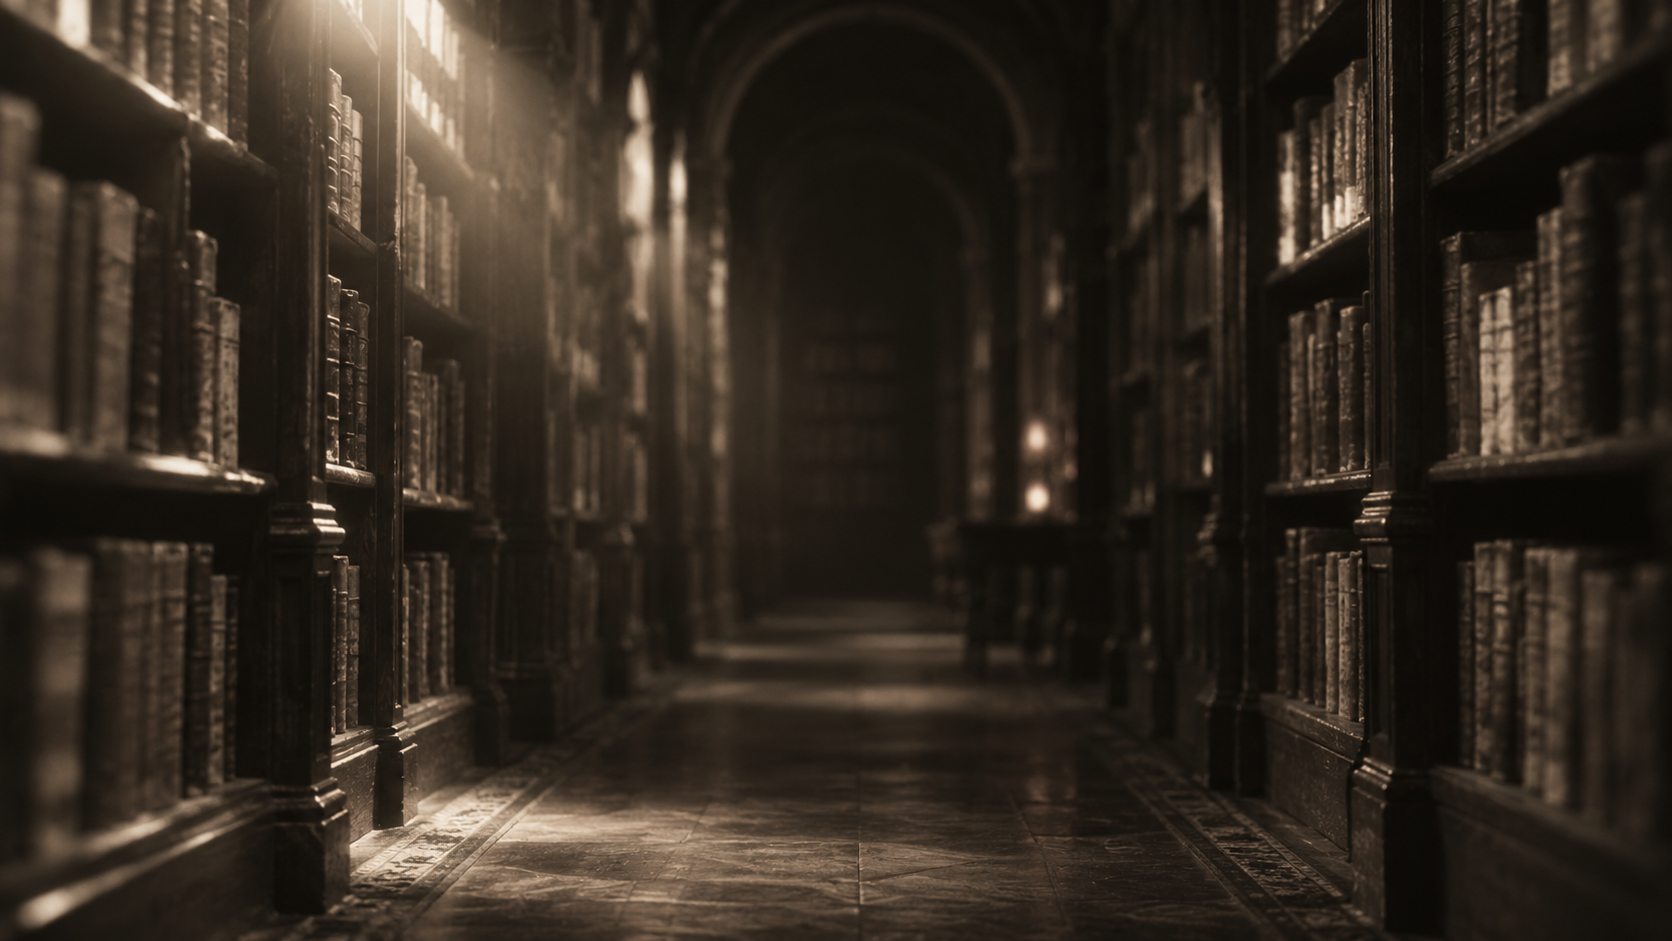
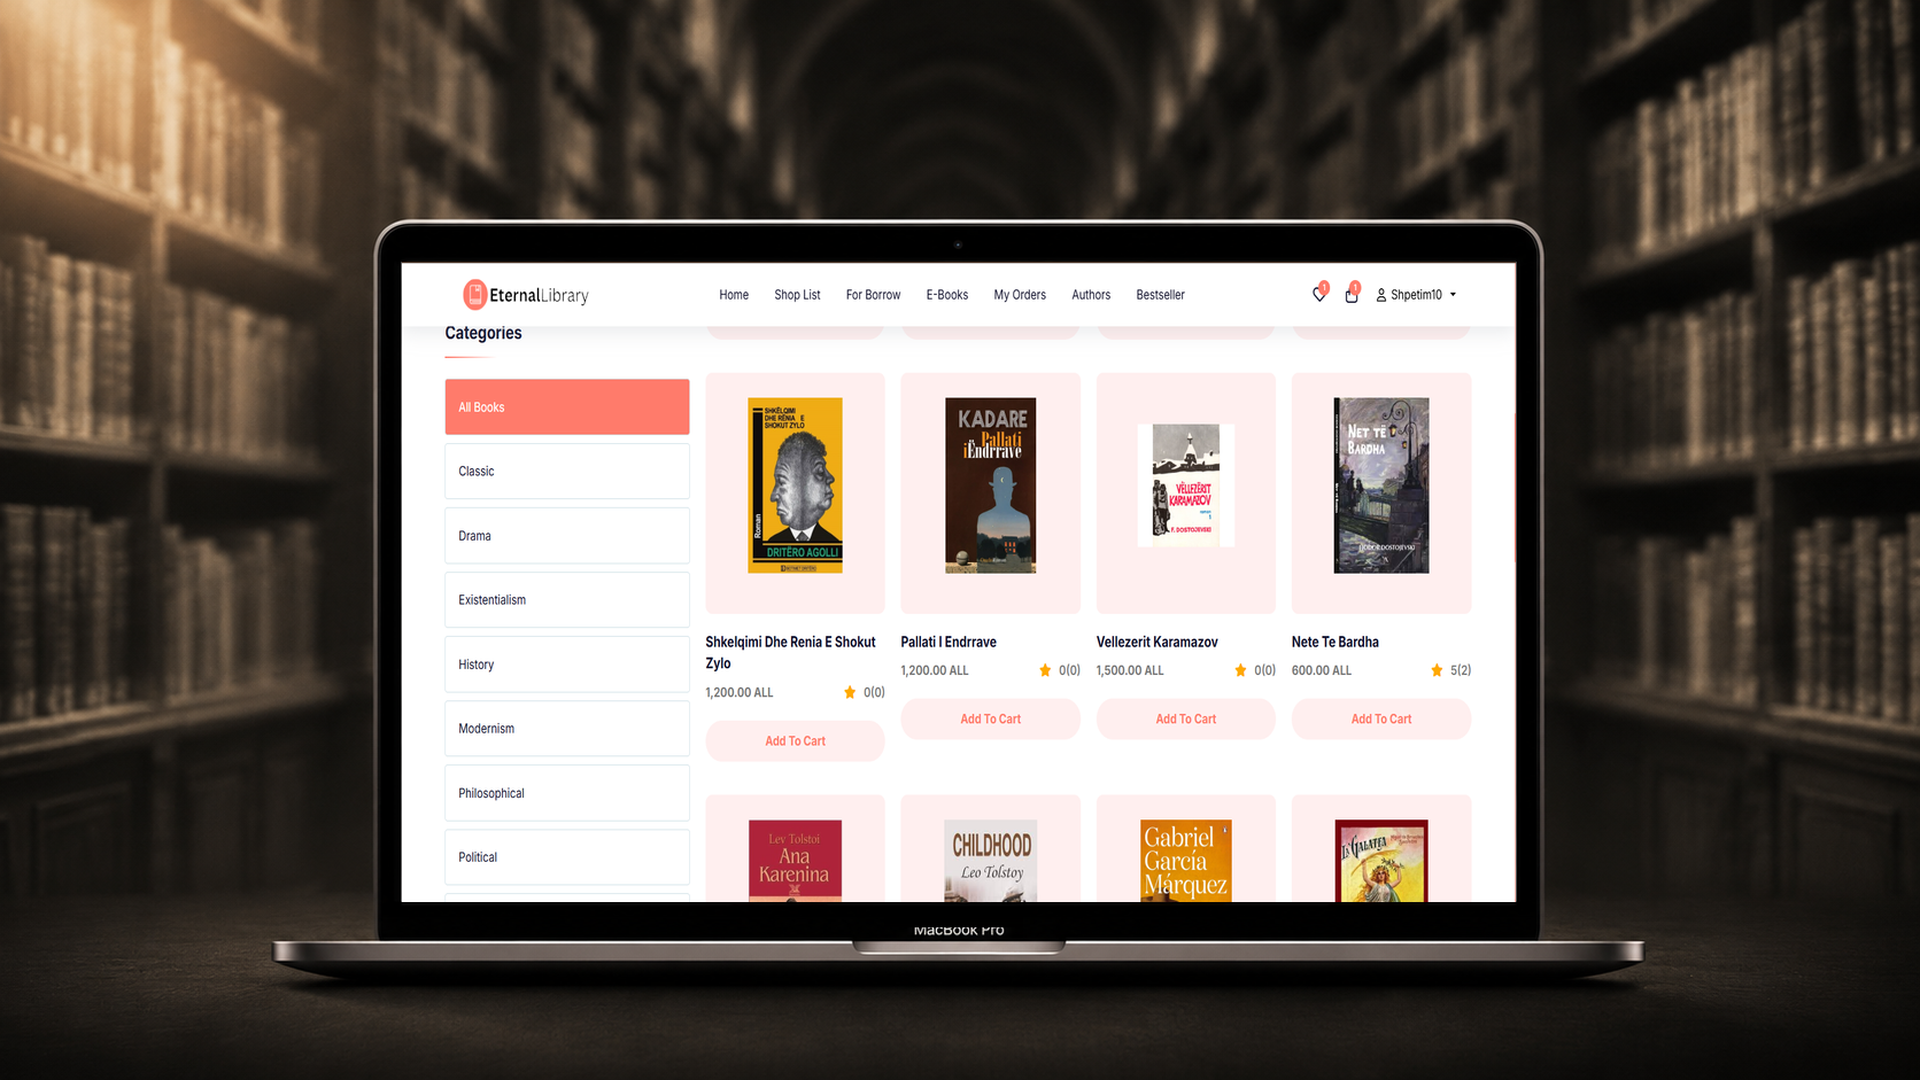
feat: show the marketplace on the library cover
New cover with the marketplace on a laptop; the spread now shows stock
management.

diff --git a/portfolio/src/content/projects.ts b/portfolio/src/content/projects.ts
@@ -57,8 +57,8 @@ const pyramidosCover = image(
 const libraryCover = image(
   "library-management-system",
   "library-management-system-cover.png",
-  "Dim, sepia-toned library corridor lined with old leather-bound books",
-  [1672, 941],
+  "Eternal Library marketplace on a laptop, with book categories and book cards, in front of dim library shelves",
+  [1920, 1080],
 );
 
 // Featured projects: 3–5 (the build fails otherwise).
